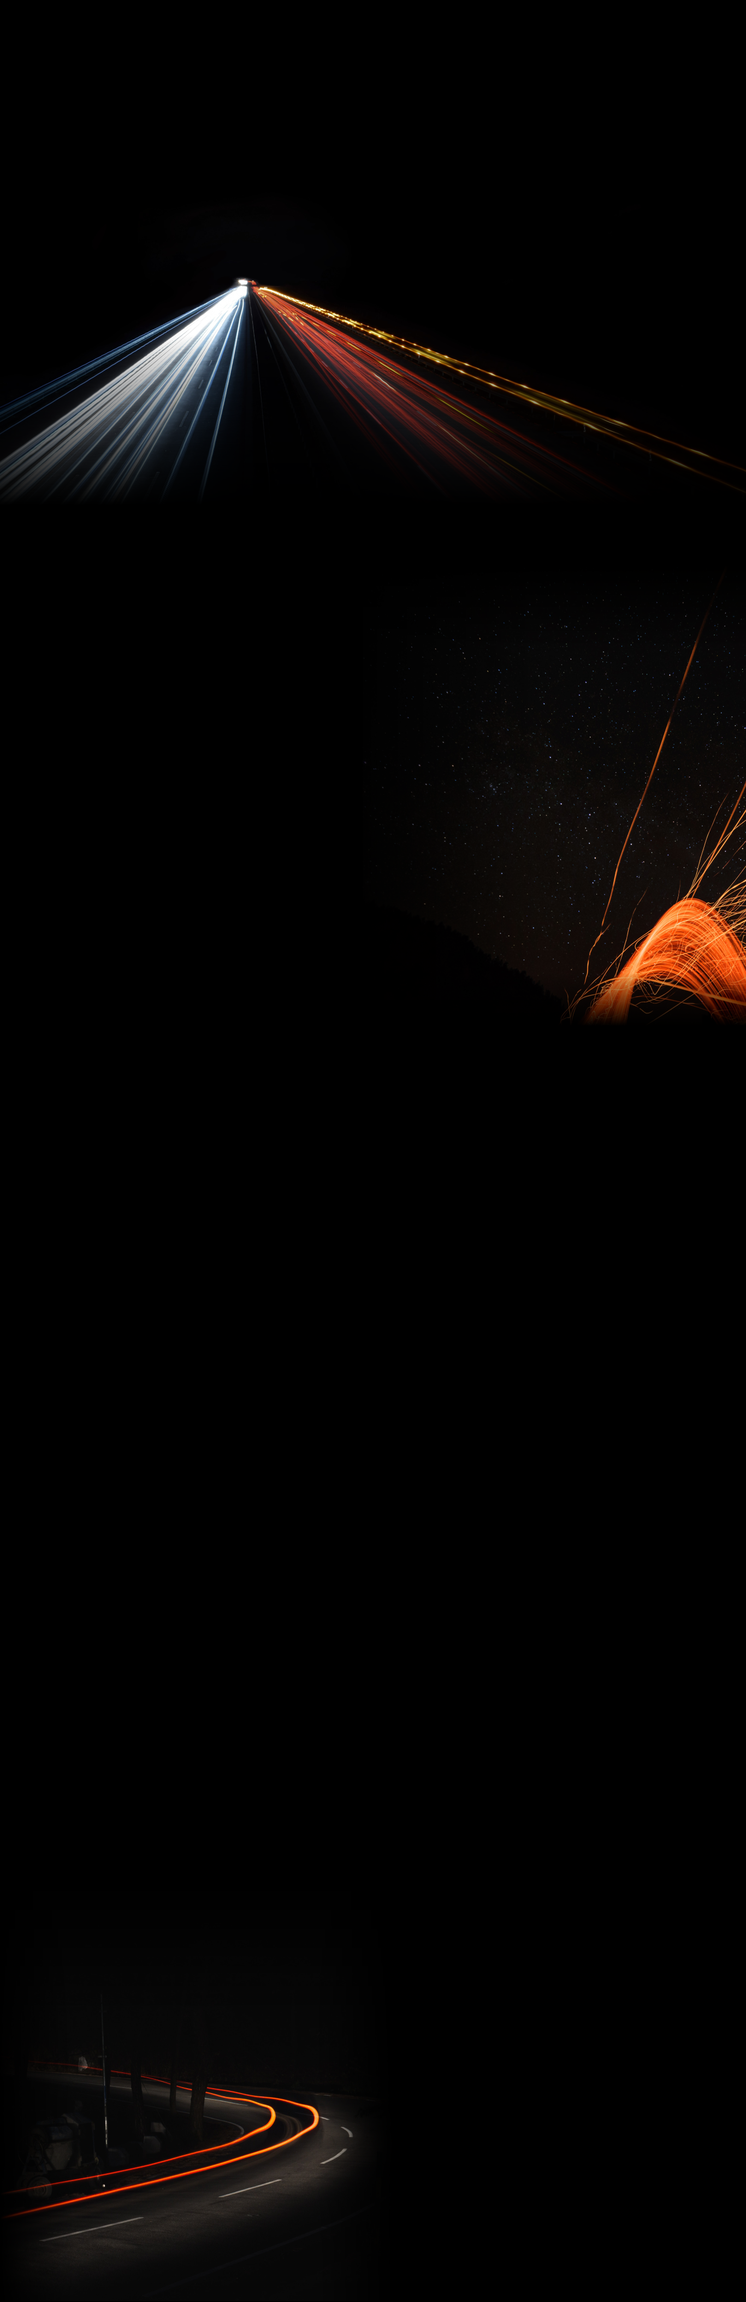
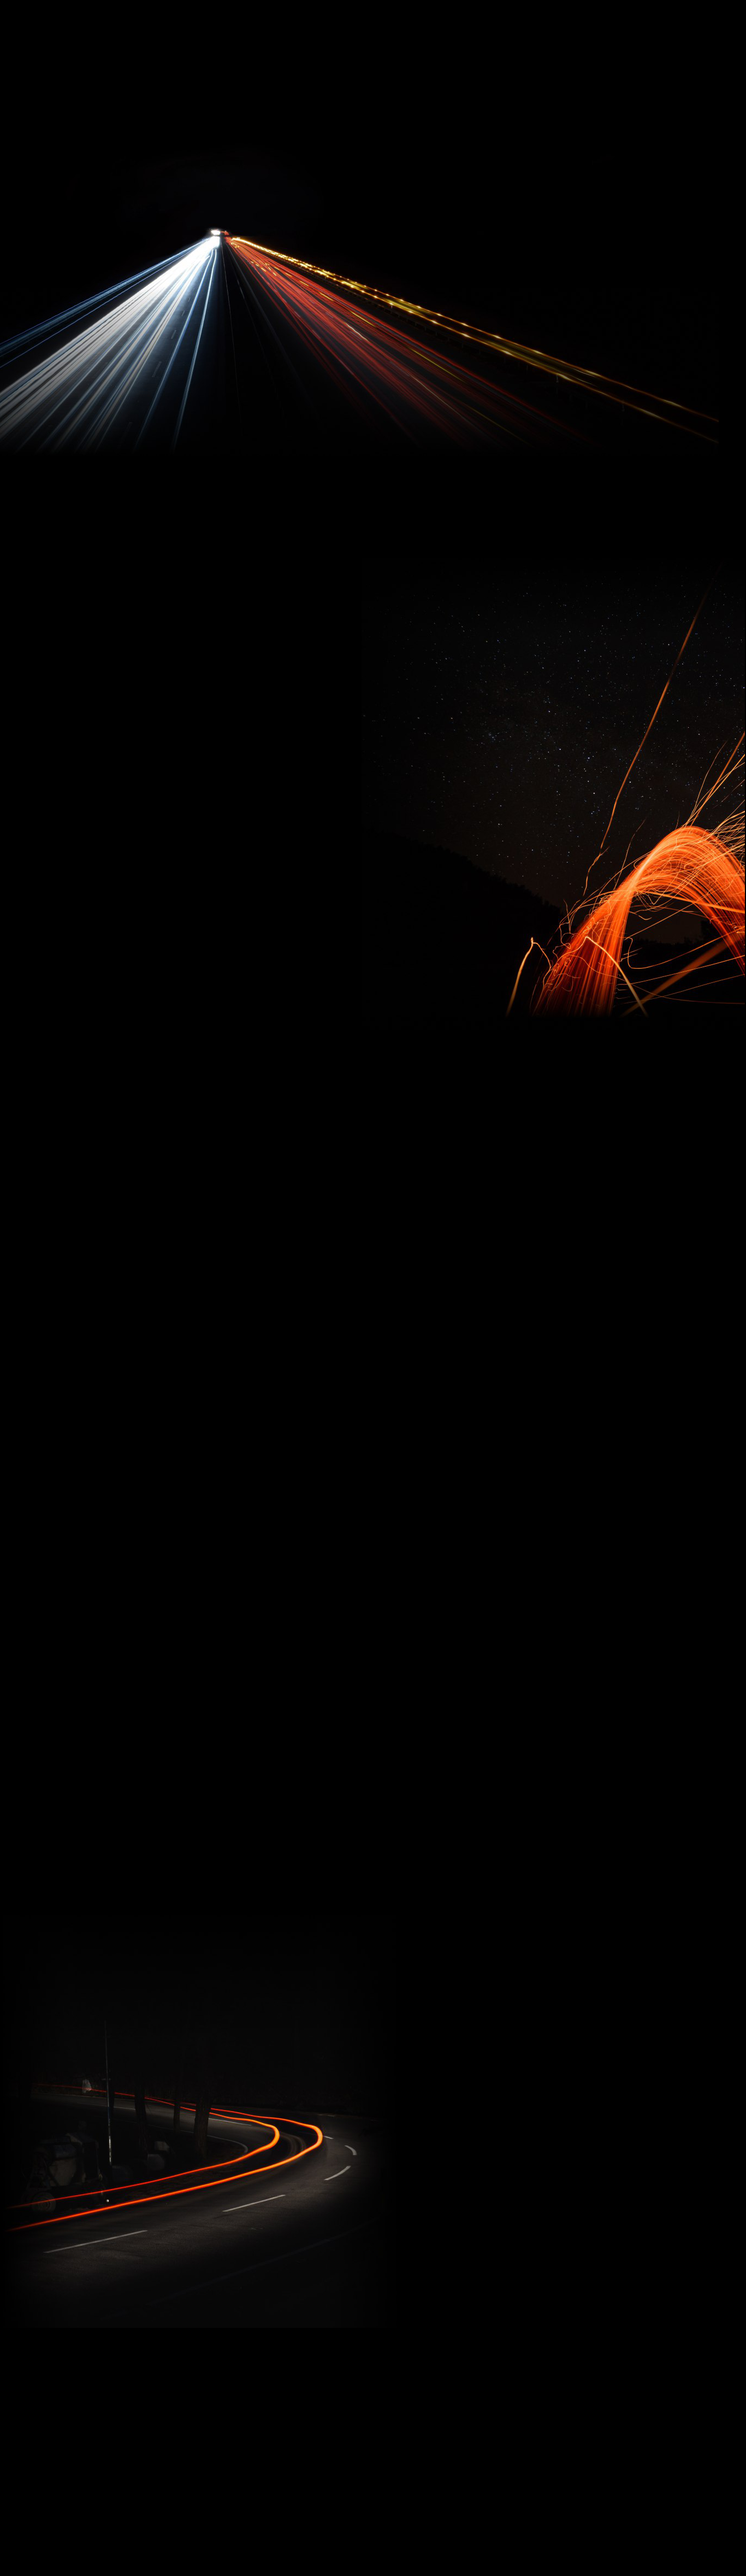
fix background image; add navbar functionality; log button click event

Changed region(s): [[0.0, 0.0622, 0.7994, 0.2177], [0.0615, 0.8086, 0.4919, 0.9953], [0.7072, 0.2799, 1.0, 0.4665]]

diff --git a/src/pages/index.js b/src/pages/index.js
@@ -8,62 +8,72 @@ import niehaus from '../images/niehaus.jpeg'
 import lawrence from '../images/lawrence.jpeg'
 import linkedin from '../images/linkedin.svg'
 import email from '../images/email.svg'
+import { Link, animateScroll as scroll } from "react-scroll";
 
 export default function Home() {
   return (
-    <div className={indexStyles.container}>
-      <div>
-        <TopBar />
-        <Header>A New Approach to Autonomous Vehicle Safety</Header>
-        <Button padding='small'>Read Our White Paper</Button>
-      </div>
+    <div>
+      <TopBar />
 
-      <div style={{margin: '400px'}}></div>
-
-      <div>
-        <Header>About Us</Header>
-        <div className={indexStyles.bodyText}>
-          AV Combinator is a safety advisory group that aims to revolutionize the way technologists, policymakers, and consumers think about autonomous vehicle safety. <br /> <br />
-          We believe what is needed, yet missing from the current autonomous vehicle ecosystem, is an approach to safety that is both feasible and comprehensive. <br /> <br />
-          To address this gap, we have put forth the <em className={indexStyles.link}>Autonomous Vehicle Modular Safety Suite White Paper</em>. <br /> <br /> <br />
-          View a summary of our white paper <span className={indexStyles.link}>here</span>. 
+      <div className={indexStyles.container}>
+        <div id='home' >
+          <Header>A New Approach to Autonomous Vehicle Safety</Header>
+          <Button 
+            padding='small'
+            onClick={() => console.log('read paper')}>
+              Read Our White Paper
+          </Button>
+          <div style={{margin: '50rem'}}></div>
         </div>
-      </div>
 
-      <div style={{margin: '200px'}}></div>
-
-      <div>
-        <Header>Our Team</Header>
-        <div className={indexStyles.memberCardList}>
-          <MemberCard name='Michael Nehmad' img={nehmad} alt='Michael Nehmad in a suit'/>
-          <MemberCard name='Richard Sun' img={sun} alt='Richard Sun smiling'/>
-          <MemberCard name='Jenn Hu' img={hu} alt='Jenn Hu in a white top'/>
-          <MemberCard name='Julius Niehaus' img={niehaus} alt='Julius Niehaus wearing nice clothes'/>
-          <MemberCard name='Troy Lawrence' img={lawrence} alt='Trow Lawrence in a white polo'/>
-        </div>
-      </div>
-
-      <div style={{margin: '130px'}}></div>
-
-      <div>
-        <Header>Contact Us</Header>
-        <div style={{display: 'flex', flexDirection: 'row'}}>
+        <div id='about-us'>
+          <Header>About Us</Header>
           <div className={indexStyles.bodyText}>
-            Submit your queries here and we will get back to you as soon as possible. 
+            AV Combinator is a safety advisory group that aims to revolutionize the way technologists, policymakers, and consumers think about autonomous vehicle safety. <br /> <br />
+            We believe what is needed, yet missing from the current autonomous vehicle ecosystem, is an approach to safety that is both feasible and comprehensive. <br /> <br />
+            To address this gap, we have put forth the <em className={indexStyles.link}>Autonomous Vehicle Modular Safety Suite White Paper</em>. <br /> <br /> <br />
+            View a summary of our white paper <span className={indexStyles.link}>here</span>. 
           </div>
-          <div>
-            <div style={{display: 'flex', flexDirection: 'row', width: '30rem'}}>
-              <FormField name='First Name'/>
-              <FormField name='Last Name' />
+          <div style={{margin: '30rem'}}></div>
+        </div>
+
+        <div id='our-team'>
+          <Header>Our Team</Header>
+          <div className={indexStyles.memberCardList}>
+            <MemberCard name='Michael Nehmad' img={nehmad} alt='Michael Nehmad in a suit'/>
+            <MemberCard name='Richard Sun' img={sun} alt='Richard Sun smiling'/>
+            <MemberCard name='Jenn Hu' img={hu} alt='Jenn Hu in a white top'/>
+            <MemberCard name='Julius Niehaus' img={niehaus} alt='Julius Niehaus wearing nice clothes'/>
+            <MemberCard name='Troy Lawrence' img={lawrence} alt='Trow Lawrence in a white polo'/>
+          </div>
+          <div style={{margin: '16rem'}}></div>
+        </div>
+
+        <div id='contact-us'>
+          <Header>Contact Us</Header>
+          <div className={indexStyles.contactSection}>
+            <div className={indexStyles.contactText}>
+              Submit your queries here and we will get back to you as soon as possible. 
             </div>
-            <FormField name='Email' />
-            <FormField name='Message' type='long'/>
-            <Button padding={'med'}>Submit</Button>
+            <div className={indexStyles.form}>
+              <div className={indexStyles.row}>
+                <FormField name='First Name'/>
+                <FormField name='Last Name' />
+              </div>
+              <div className={indexStyles.row}>
+                <FormField name='Email' />
+              </div>
+              <FormField name='Message' type='long'/>
+              <Button 
+                padding={'med'} 
+                onClick={() => console.log('submit')}>
+                  Submit
+              </Button>
+            </div>
           </div>
         </div>
+
       </div>
-
-
     </div>
   );
 }
@@ -77,14 +87,29 @@ const TopBar = () => {
   );
 }
 
+const NavBarItem = ({name, id}) => {
+  return (
+    <Link
+      className={indexStyles.navText}
+      activeClass={`${indexStyles.navText} ${indexStyles.link}`}
+      to={id}
+      spy={true}
+      smooth={true}
+      offset={-125}
+      duration={500}>
+        {name}
+    </Link>
+  );
+}
+
 const NavBar = () => {
   return (
-  <div className={indexStyles.navBar}>
-    <span className={indexStyles.navText}>Home</span>
-    <span className={indexStyles.navText}>About Us</span>
-    <span className={indexStyles.navText}>Our Team</span>
-    <span className={indexStyles.navText}>Contact Us</span>
-  </div>
+    <ul className={indexStyles.navBar}>
+      <li><NavBarItem id='home' name='Home'/></li>
+      <li><NavBarItem id='about-us' name='About Us'/></li>
+      <li><NavBarItem id='our-team' name='Our Team'/></li>
+      <li><NavBarItem id='contact-us' name='Contact Us'/></li>
+    </ul>
   );
 }
 
@@ -96,11 +121,13 @@ const Header = ({children}) => {
   );
 }
 
-const Button = ({padding, children}) => {
+const Button = ({padding, onClick, children}) => {
   const buttonPadding = padding === 'small' ? indexStyles.padS : indexStyles.padMed;
   return (
-    <div className={`${indexStyles.button} ${buttonPadding}`}>
-      <span className={indexStyles.buttonText}>{children}</span>
+    <div 
+      className={`${indexStyles.button} ${buttonPadding}`}
+      onClick={onClick}>
+        <span className={indexStyles.buttonText}>{children}</span>
     </div>
   );
 }
@@ -122,10 +149,15 @@ const MemberCard = ({name, text, img, alt}) => {
 }
 
 const FormField = ({name, type}) => {
-  const longResponse = type === 'long' ? indexStyles.longResponse : '';
   return (
-    <div className={`${indexStyles.formField} ${longResponse}`}>
-      <span className={indexStyles.formText}>{name}</span>
-    </div>
+    type === 'long' ?
+    <textarea 
+      className={`${indexStyles.formField} ${indexStyles.formText}`} 
+      placeholder={name}
+    /> :
+    <input 
+      className={`${indexStyles.formField} ${indexStyles.formText}`} 
+      type='text' 
+      placeholder={name}/>  
   )
 }

diff --git a/src/styles/index.module.css b/src/styles/index.module.css
@@ -10,21 +10,19 @@ html {
 .container {
     display: flex;
     flex-direction: column;
-    padding: 5rem;
-}
-
-.sectionImage {
-    height: auto;
-    width: 50rem;
-    object-fit: cover;
+    padding: 8rem 5rem 7rem 5rem;
 }
 
 .topBar {
     display: flex;
     flex-direction: row;
     justify-content: space-between;
-    width: 80rem;
-    margin-bottom: 5rem;
+    width: 100%;
+    position: fixed;
+    top: 0;
+    left: 0;
+    background-color: black;
+    padding: 1rem 6rem;
 }
 
 .navBar {
@@ -32,9 +30,11 @@ html {
     flex-direction: row;
     justify-content: center;
     align-items: center;
+    margin-right: 12rem;
+    list-style-type: none;
 }
 
-.navText, .buttonText, .bodyText, .formText {
+.navText, .buttonText, .bodyText, .formText, ::placeholder {
     font-family: 'Barlow', sans-serif;
     font-style: normal;
     font-weight: 400;
@@ -42,19 +42,18 @@ html {
     color: white;
 }
 
-.formText {
+.formText, ::placeholder {
     font-weight: 500;
 }
 
 .bodyText {
     font-size: 1.5rem;
-    width: 58rem;
+    max-width: 58rem;
 }
 
 .textEm {
     font-style: italic;
 }
-
 
 
 .navText {
@@ -73,7 +72,8 @@ html {
     font-size: 4rem;
     line-height: 5rem;
     color: white;
-    width: 45rem;
+    max-width: 45rem;
+    min-width: 22rem;
     margin-bottom: 2rem;
 }
 
@@ -104,6 +104,7 @@ html {
     padding: 2rem 3rem;
     align-items: center;
     max-width: 18rem;
+    min-width: 15rem;
 }
 
 .memberImage {
@@ -138,10 +139,38 @@ html {
 .formField {
     border-radius: 10px;
     background:rgba(255, 255, 255, 0.2);
-    flex: 1;
     padding: 1rem;
     margin: 0 1rem 1.5rem 0;
+    border: 0;
+    flex: 1;
 }
-.longResponse {
-    padding-bottom: 10rem;
+
+.contactText {
+    font-family: 'Barlow', sans-serif;
+    font-style: normal;
+    font-weight: normal;
+    font-size: 2rem;
+    color: white;
+    max-width: 30rem;
+    margin-bottom: 3rem;
+}
+
+.row {
+    display: flex;
+    flex-direction: row;
+}
+
+.form {
+    display: flex;
+    flex-direction: column;
+    width: 32rem;
+    height: 30rem;
+}
+
+.contactSection {
+    display: flex;
+    flex-direction: row;
+    flex-wrap: wrap;
+    max-width: 80rem;
+    justify-content: space-between;
 }
